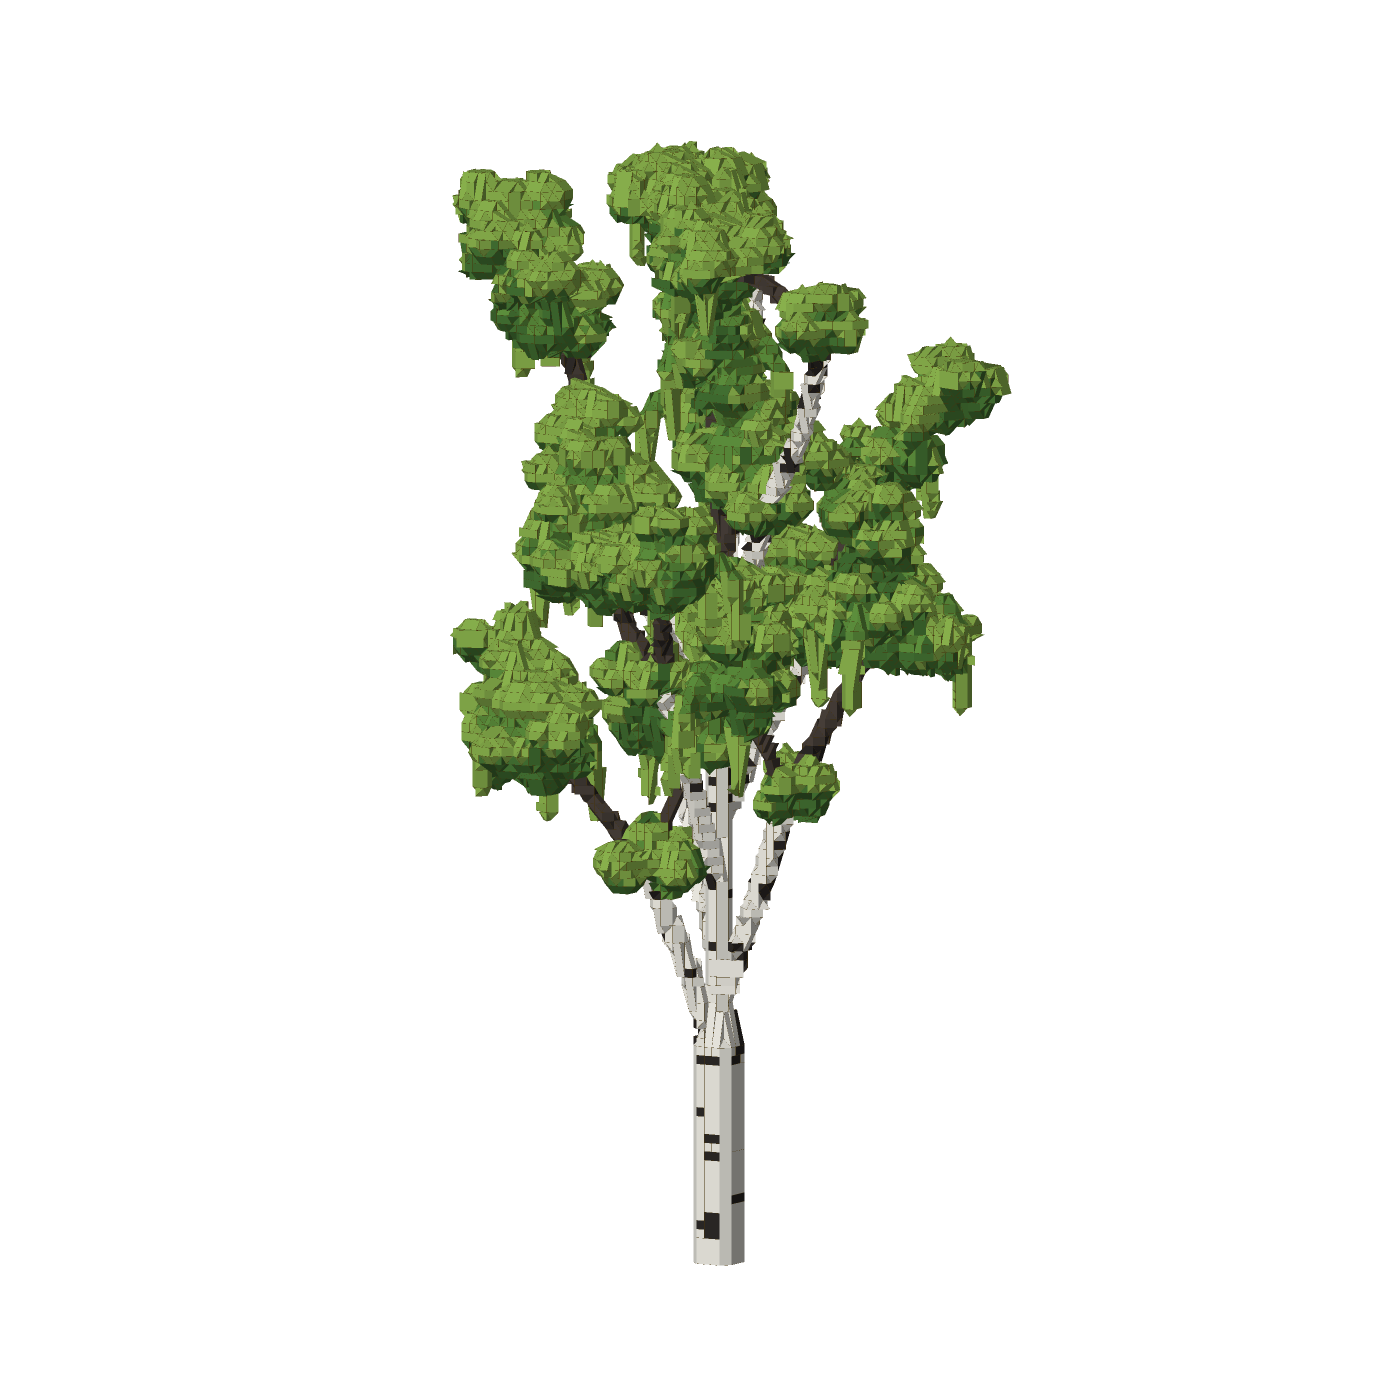
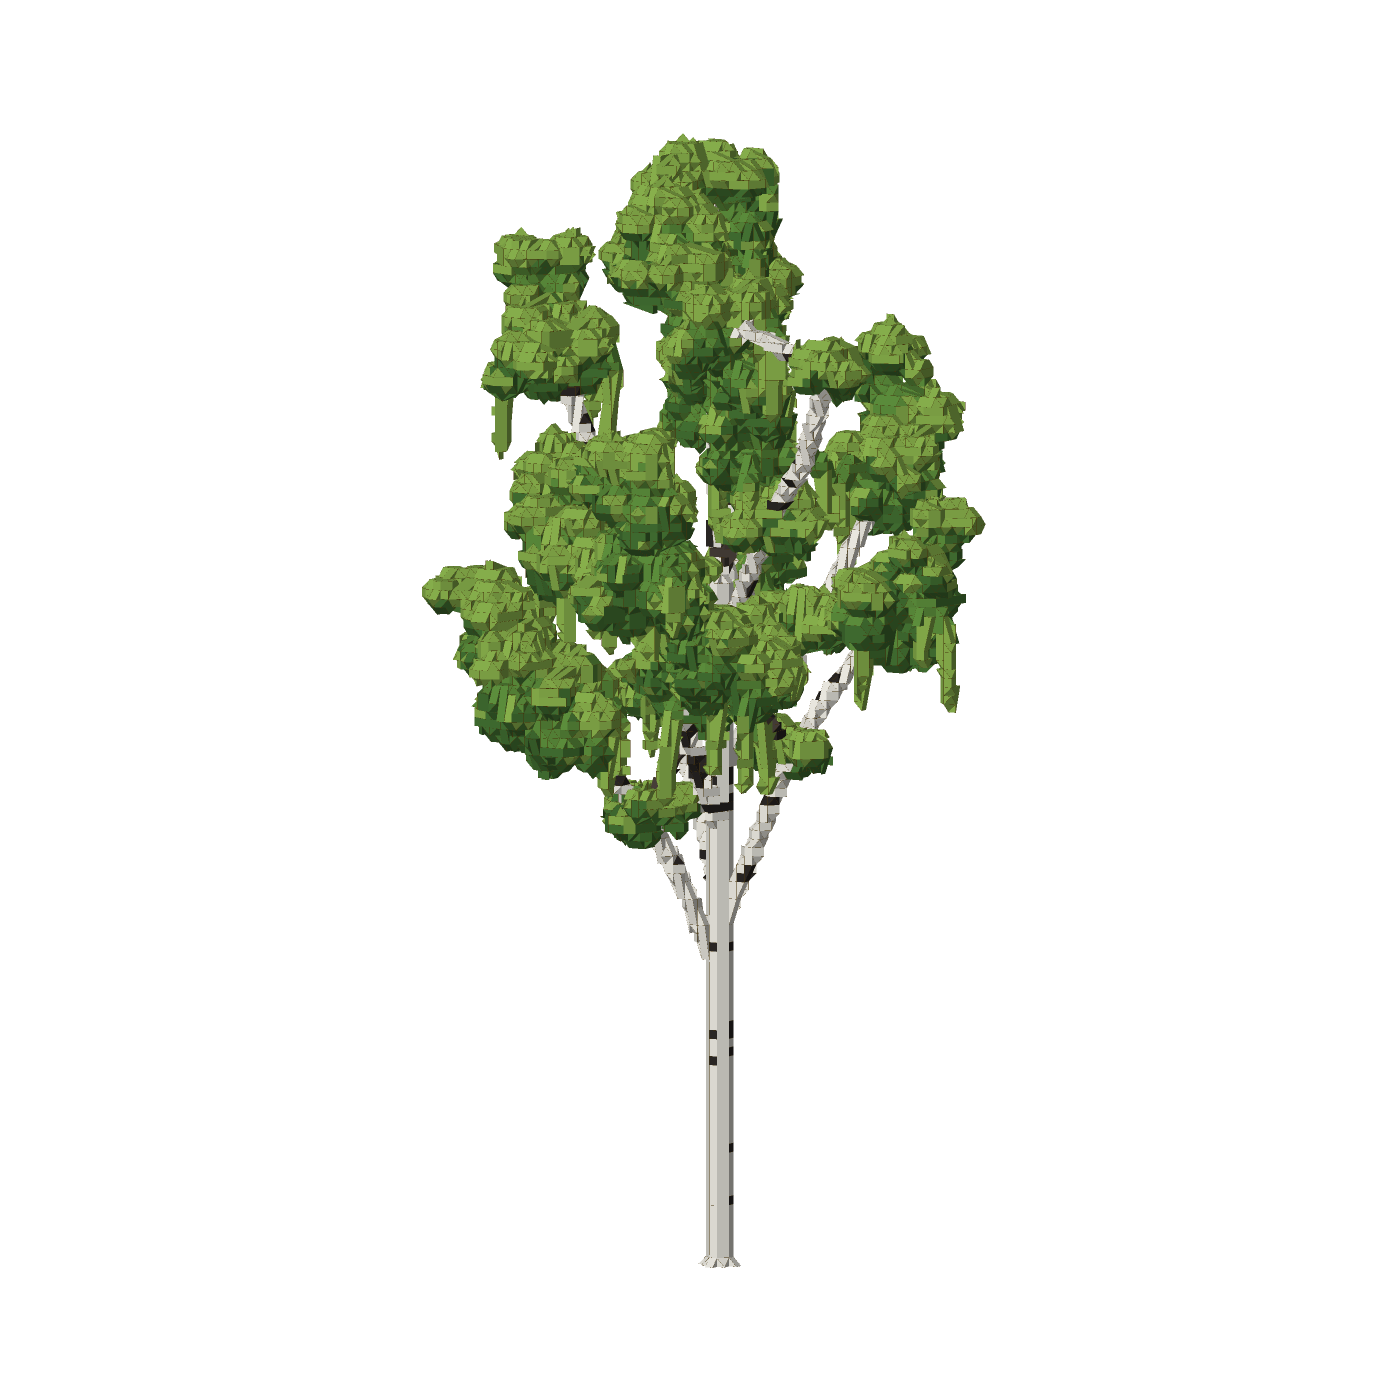
Beech, birch, willow and cherry: thinner trunks that taper, and limbs that leave the stem one after another

Changed region(s): [[0.3071, 0.0921, 0.7371, 0.9214]]

diff --git a/core/src/tree.rs b/core/src/tree.rs
@@ -1489,10 +1489,18 @@ struct Habit {
     spray: f64,
     /// in blossom: clouds of small clusters along its branches, where another tree has masses of leaves at their ends (see [`CHERRY`])
     bloom: bool,
+    /// Over how many of the trunk's own thicknesses above its fork its
+    /// limbs leave it, one after another, the stem between them thinner
+    /// by each that has left (da Vinci's rule at every one). 0 for a
+    /// trunk that divides into all of its limbs at one place, as an old
+    /// oak's does. A beech, a willow and a cherry did that too, and with
+    /// six or seven limbs each was under two fifths of the trunk's width:
+    /// a thick post that ended, and thin wood beginning on top of it.
+    stagger: f64,
 }
 
 /// An oak: low fork, wide heavy limbs, leaves in separate masses.
-const OAK: Habit = Habit { girth: 0.055, bole: (0.17, 0.23), mass: (0.058, 0.045), leader: false, polar: (0.78, 1.22), out: 0.36, sag: 0.1, up: 0.15, wander: 0.44, flat: 0.78, heart: 0.15, leafy: 1.5, roots: 1.0, fine: 0.0, weep: 0.0, spray: 0.5, bloom: false };
+const OAK: Habit = Habit { girth: 0.055, bole: (0.17, 0.23), mass: (0.058, 0.045), leader: false, polar: (0.78, 1.22), out: 0.36, sag: 0.1, up: 0.15, wander: 0.44, flat: 0.78, heart: 0.15, leafy: 1.5, roots: 1.0, fine: 0.0, weep: 0.0, spray: 0.5, bloom: false, stagger: 0.0 };
 
 /// A Japanese flowering cherry in blossom, *Prunus serrulata* or the
 /// Yoshino cherry: a short dark trunk banded across with pale lenticels,
@@ -1505,7 +1513,7 @@ const OAK: Habit = Habit { girth: 0.055, bole: (0.17, 0.23), mass: (0.058, 0.045
 /// turn up a little, and with blossom on every branch under five and a
 /// half cells thick and not only at the ends, which is what puts it along the
 /// branches.
-const CHERRY: Habit = Habit { girth: 0.042, bole: (0.15, 0.2), mass: (0.065, 0.04), leader: false, polar: (1.0, 1.4), out: 0.46, sag: 0.0, up: 0.1, wander: 0.3, flat: 0.6, heart: 0.18, leafy: 5.5, roots: 0.8, fine: 0.5, weep: 0.0, spray: 0.42, bloom: true };
+const CHERRY: Habit = Habit { girth: 0.042, bole: (0.15, 0.2), mass: (0.065, 0.04), leader: false, polar: (1.0, 1.4), out: 0.46, sag: 0.0, up: 0.1, wander: 0.3, flat: 0.6, heart: 0.18, leafy: 5.5, roots: 0.8, fine: 0.5, weep: 0.0, spray: 0.42, bloom: true, stagger: 3.6 };
 
 /// A beech, *Fagus sylvatica*: a smooth grey trunk that carries on up
 /// through a dense, oval crown about three quarters as wide as the tree
@@ -1516,19 +1524,19 @@ const CHERRY: Habit = Habit { girth: 0.042, bole: (0.15, 0.2), mass: (0.065, 0.0
 /// It is the oak's rule with other numbers, which is the reason the rule
 /// has numbers: a leading stem, limbs that wander less, flatter tufts of
 /// leaves on more of the branches (so the crown closes), and small roots.
-const BEECH: Habit = Habit { girth: 0.04, bole: (0.22, 0.28), mass: (0.09, 0.055), leader: true, polar: (0.75, 1.1), out: 0.24, sag: 0.0, up: 0.1, wander: 0.24, flat: 0.42, heart: 0.34, leafy: 3.0, roots: 0.55, fine: 1.0, weep: 0.0, spray: 0.12, bloom: false };
+const BEECH: Habit = Habit { girth: 0.04, bole: (0.22, 0.28), mass: (0.09, 0.055), leader: true, polar: (0.75, 1.1), out: 0.24, sag: 0.0, up: 0.1, wander: 0.24, flat: 0.42, heart: 0.34, leafy: 3.0, roots: 0.55, fine: 1.0, weep: 0.0, spray: 0.12, bloom: false, stagger: 5.5 };
 
 /// A silver birch, *Betula pendula*: a slender white trunk marked with
 /// black, carrying on to the top of a narrow, open crown of thin
 /// climbing limbs whose ends hang.
 /// https://en.wikipedia.org/wiki/Betula_pendula
-const BIRCH: Habit = Habit { girth: 0.019, bole: (0.26, 0.34), mass: (0.12, 0.06), leader: true, polar: (0.4, 0.75), out: 0.12, sag: 0.0, up: 0.18, wander: 0.22, flat: 0.8, heart: 0.4, leafy: 2.6, roots: 0.4, fine: 1.0, weep: 0.3, spray: 0.5, bloom: false };
+const BIRCH: Habit = Habit { girth: 0.019, bole: (0.26, 0.34), mass: (0.12, 0.06), leader: true, polar: (0.4, 0.75), out: 0.12, sag: 0.0, up: 0.18, wander: 0.22, flat: 0.8, heart: 0.4, leafy: 2.6, roots: 0.4, fine: 1.0, weep: 0.3, spray: 0.5, bloom: false, stagger: 0.0 };
 
 /// A weeping willow, *Salix babylonica*: a short stout trunk, limbs that
 /// climb and spread into a wide dome, and from every branch end a
 /// curtain of long thin shoots hanging straight down, some to the ground.
 /// https://en.wikipedia.org/wiki/Salix_babylonica
-const WILLOW: Habit = Habit { girth: 0.05, bole: (0.2, 0.26), mass: (0.06, 0.035), leader: false, polar: (0.5, 0.95), out: 0.3, sag: 0.0, up: 0.16, wander: 0.36, flat: 0.7, heart: 0.45, leafy: 1.8, roots: 0.9, fine: 1.0, weep: 1.0, spray: 0.4, bloom: false };
+const WILLOW: Habit = Habit { girth: 0.05, bole: (0.2, 0.26), mass: (0.06, 0.035), leader: false, polar: (0.5, 0.95), out: 0.3, sag: 0.0, up: 0.16, wander: 0.36, flat: 0.7, heart: 0.45, leafy: 1.8, roots: 0.9, fine: 1.0, weep: 1.0, spray: 0.4, bloom: false, stagger: 3.6 };
 
 /// A Scots pine, *Pinus sylvestris*, grown old: a tall bare trunk, its
 /// lower boughs long shed, and at the top a flat, broken crown of
@@ -1538,7 +1546,7 @@ const WILLOW: Habit = Habit { girth: 0.05, bole: (0.2, 0.26), mass: (0.06, 0.035
 /// It is grown by the forking rule and not the pine's tiers: an old
 /// Scots pine has lost the tiers a young one had, and what is left is a
 /// few limbs that fork.
-const SCOTS: Habit = Habit { girth: 0.034, bole: (0.52, 0.6), mass: (0.12, 0.06), leader: true, polar: (1.0, 1.45), out: 0.3, sag: 0.04, up: 0.02, wander: 0.5, flat: 0.34, heart: 0.5, leafy: 1.3, roots: 0.5, fine: 0.0, weep: 0.0, spray: 0.1, bloom: false };
+const SCOTS: Habit = Habit { girth: 0.034, bole: (0.52, 0.6), mass: (0.12, 0.06), leader: true, polar: (1.0, 1.45), out: 0.3, sag: 0.04, up: 0.02, wander: 0.5, flat: 0.34, heart: 0.5, leafy: 1.3, roots: 0.5, fine: 0.0, weep: 0.0, spray: 0.1, bloom: false, stagger: 0.0 };
 
 /// The thinnest an oak's branch is followed to, in cells: thinner than
 /// this it would not survive the fit, and it ends in leaves.
@@ -1598,7 +1606,12 @@ fn broadleaf(g: &mut Grown, tree: &Tree, height: f64, spread: f64, habit: &Habit
     let limbs = tree.count.max(2) as usize;
     // (As thick as asked, and three cells through at the least. Its limbs share what it is at its fork, so they follow it: a stout trunk has stout limbs.)
     let usual = (height * habit.girth).max(2.4);
-    let girth = (usual * tree.stout()).max(1.6);
+    // The trunk of a birch is seven tenths of what its crown is grown
+    // from, and of a beech, a willow or a cherry five sixths: each was
+    // too wide for the limbs it carried. Their crowns are grown as they
+    // were, and their limbs are thinner with their trunks.
+    let slim = if habit.leader && habit.girth < 0.03 { 0.71 } else if habit.stagger > 0.0 { 0.83 } else { 1.0 };
+    let girth = (usual * slim * tree.stout()).max(1.6);
     // The crown is grown as the usual trunk's would be, and its limbs
     // then made thicker or thinner by what the trunk is. Grown from the
     // trunk asked for, which was tried, a thin trunk's limbs came to twigs
@@ -1628,8 +1641,8 @@ fn broadleaf(g: &mut Grown, tree: &Tree, height: f64, spread: f64, habit: &Habit
     // it, and is at its fork a little over three quarters of what it is
     // near the ground; one that divides there into limbs is a column to
     // its fork. What it is at the fork is what its limbs share.
-    // (a slender one, which has given limbs off all the way up, to half)
-    let neck = if slender { girth * 0.5 } else if habit.leader { girth * 0.78 } else { girth };
+    // (A slender one to three fifths. And one whose limbs leave it up a length of stem narrows by a seventh below them, where an oak, which divides at one place, is a column.)
+    let neck = if slender { girth * 0.62 } else if habit.leader { girth * 0.78 } else if habit.stagger > 0.0 { girth * 0.86 } else { girth };
     // (the flare of a trunk made fatter is no taller than the usual trunk's: twice as tall, it would reach the fork, and the trunk be a cone)
     let flare = girth * 2.2 / tree.stout().max(1.0);
     // A trunk made fatter draws in under its fork, by up to three
@@ -1710,6 +1723,27 @@ fn broadleaf(g: &mut Grown, tree: &Tree, height: f64, spread: f64, habit: &Habit
             waiting.push(Shoot { from: fork, way: DVec3::new(way.cos() * polar.sin(), way.sin() * polar.sin(), polar.cos()), radius, parent: trunk, level: 1, roll: g.between(0.0, TAU) });
         }
         g.forks.push((neck, radii.iter().map(|r| r * fat).collect()));
+        if habit.stagger > 0.0 && top >= 3 {
+            // The limbs leave the stem one after another up a length of
+            // it, and the first of them (the leader, or the one nearest
+            // upright) is what is left of it at the top. The stem between
+            // is a limb of its own, as thick at each place as the limbs
+            // still to leave it make it.
+            let long = habit.stagger * usual;
+            let (mut path, mut thick, mut left) = (vec![fork], vec![neck / fat], (neck / fat).powi(2));
+            for k in 1..top {
+                let at = stem(bole + long * k as f64 / (top - 1) as f64);
+                left = (left - radii[k] * radii[k]).max(radii[0] * radii[0]);
+                path.push(at);
+                thick.push(left.sqrt());
+                waiting[k].from = at;
+            }
+            waiting[0].from = *path.last().unwrap();
+            let above = g.limb_record(path, thick, Some(trunk), 1);
+            for shoot in waiting.iter_mut().take(top) {
+                shoot.parent = above;
+            }
+        }
         if slender {
             // the limbs off the stem: one to each length of it, each round from the last by the golden angle, half as thick as the stem is there
             for k in 0..limbs {
@@ -4092,10 +4126,12 @@ mod tests {
             let tree = model(Kind::Beech, seed);
             let (height, spread) = Tree::usual_size(Kind::Beech);
             // the thickest limb is the stem carried on: it starts nearly upright and climbs most of the crown
-            let leader = tree.limbs[1..].iter().filter(|l| l.level == 1).max_by(|a, b| a.radius[0].total_cmp(&b.radius[0])).unwrap();
-            let first = (leader.path[1] - leader.path[0]).normalize();
-            assert!(first.z > 0.9, "the leader leaves the trunk at {first}");
-            assert!(leader.path.last().unwrap().z > height * 0.55, "the leader ends at {}", leader.path.last().unwrap().z);
+            // (the stem goes on above the trunk as a limb of its own, which its limbs leave one by one, and the leader is what is left of it)
+            let stem = tree.limbs[1..].iter().filter(|l| l.level == 1).max_by(|a, b| a.radius[0].total_cmp(&b.radius[0])).unwrap();
+            let first = (stem.path[1] - stem.path[0]).normalize();
+            assert!(first.z > 0.9, "the stem leaves the trunk at {first}");
+            let leader = tree.limbs[1..].iter().filter(|l| l.level == 1 && l.path[0].distance(*stem.path.last().unwrap()) < 1e-6).map(|l| l.path.last().unwrap().z).fold(f64::MIN, f64::max);
+            assert!(leader > height * 0.55, "the leader ends at {leader}");
             for (limb, into) in &tree.forks {
                 assert!((into.iter().map(|r| r * r).sum::<f64>() - limb * limb).abs() < 1e-9 * limb * limb);
             }
@@ -4643,7 +4679,7 @@ mod tests {
         let (birch, height) = (model(Kind::Birch, 1), Tree::usual_size(Kind::Birch).0);
         let fork = birch.limbs[0].path.last().unwrap().z;
         assert!(reach(&birch, 8.25).0 * 2.0 <= height / 22.0, "a birch {} through, {height} tall", reach(&birch, 8.25).0 * 2.0);
-        assert!(reach(&birch, (fork * 0.8).floor() + 0.25).0 < reach(&birch, 2.25).0);
+        assert!(reach(&birch, (fork * 0.8).floor() + 0.25).0 <= reach(&birch, 2.25).0);
     }
 
     #[test]
@@ -4828,5 +4864,38 @@ mod tests {
         assert!(bulbs.len() <= grown_bulbs + 4 && bulbs.len() * 10 >= grown_bulbs * 8 && bulbs.iter().filter(|b| b.ext == [2, 2, 2]).count() * 10 >= bulbs.len() * 8, "{} bricks for {grown_bulbs} bulbs: {:?}", bulbs.len(), bulbs.iter().map(|b| b.ext).collect::<Vec<_>>());
         // a pine with nothing on it has none of any of it
         assert!(grown(Tree::of(Kind::Pine)).parts.iter().all(|p| !matches!(p.shade, STAR | EXTRA | BAUBLE_GOLD | BAUBLE_PALE | TINSEL | FLAME | WAX)));
+    }
+
+    /// Going up a stem from the ground to past where its limbs leave, the
+    /// wood on its axis thins steadily: `None`, or where it does not.
+    fn stem_steps(kind: Kind, seed: u64, girth: i32, size: f64) -> Option<String> {
+        let (height, spread) = Tree::usual_size(kind);
+        let tree = Model::new(&Tree { seed, girth, ..Tree::of(kind) }, DVec3::splat(0.5), (height * size).round(), (spread * size).round());
+        let fork = tree.limbs[0].path.last().unwrap().z;
+        let stem = tree.forks[0].0;
+        // (a birch's stem is its trunk, to where the ends of its top limbs hang round it; another's is followed past its fork by twice its thickness there, in which its limbs leave it)
+        let top = if kind == Kind::Birch { fork * 0.85 } else { fork + 2.0 * stem };
+        let wide: Vec<f64> = (1..top as usize).map(|k| reach(&tree, k as f64 + 0.25).0).collect();
+        for (n, r) in wide.iter().enumerate() {
+            if n + 1 < wide.len() && wide[n + 1] < r - 0.8 {
+                return Some(format!("{kind:?} {seed} at {girth}% and {size}: {r} then {} at {} up (its fork is at {fork})", wide[n + 1], n + 2));
+            }
+            // (by a fifth in six cells, and the half cell by which a trunk's bricks may be wider than the round stem that carries on from them)
+            if n + 6 < wide.len() && wide[n + 6] < r * 0.8 - 0.6 {
+                return Some(format!("{kind:?} {seed} at {girth}% and {size}: {r} and six cells on {} at {} up (its fork is at {fork})", wide[n + 6], n + 7));
+            }
+        }
+        None
+    }
+
+    #[test]
+    fn a_stem_thins_steadily_from_the_ground_to_past_where_its_limbs_leave() {
+        let mut faults = Vec::new();
+        for kind in [Kind::Beech, Kind::Birch, Kind::Willow, Kind::Cherry] {
+            for (seed, girth, size) in [(1, 100, 1.0), (2, 100, 1.0), (3, 100, 1.0), (1, 100, 0.6), (2, 100, 1.5), (1, 50, 1.0), (2, 200, 1.0)] {
+                faults.extend(stem_steps(kind, seed, girth, size));
+            }
+        }
+        assert!(faults.is_empty(), "{} stems with a step in them:\n{}", faults.len(), faults.join("\n"));
     }
 }

diff --git a/docs/algorithm.md b/docs/algorithm.md
@@ -2845,7 +2845,23 @@ third at most, over about twice its own thickness of height. Buttress
 roots are ridges 0.3 of the trunk thick that run down that flare from no
 higher than half way to the fork, and a kind with $`\rho < 0.7`$ has
 none. A tree that keeps its stem narrows to 0.78 of $`g`$ at its fork,
-and the limbs there share that section by da Vinci's rule. A pine's decorations are parts of the same solid
+and the limbs there share that section by da Vinci's rule. A beech, a willow and a cherry do not divide at one place. Above the
+fork the stem goes on for 5.5 (beech) or 3.6 (willow, cherry) of the
+trunk's thicknesses, and the limbs leave it one after another along that
+length. With the limbs still to leave having radii $`r_k`$, the stem at
+any height has the radius
+
+```math
+\sqrt{	extstyle\sum_k r_k^2}
+```
+
+so it thins at each limb by da Vinci's rule and ends as the last of
+them. Their trunks are also 0.83 of the thickness their crowns are grown
+from (a birch's 0.71) and narrow by a seventh from foot to fork. Before
+this, six or seven limbs left one point, each under two fifths of the
+trunk's width, so a wide column ended in a collar with thin wood on top.
+
+A pine's decorations are parts of the same solid
 ([core/src/tree.rs](../core/src/tree.rs), `pine`). Baubles are balls of
 radius 1.9, 2.4 or 2.9 under the end and the middle of a bough, taken in
 the order of a number hashed from each place, so asking for more keeps
